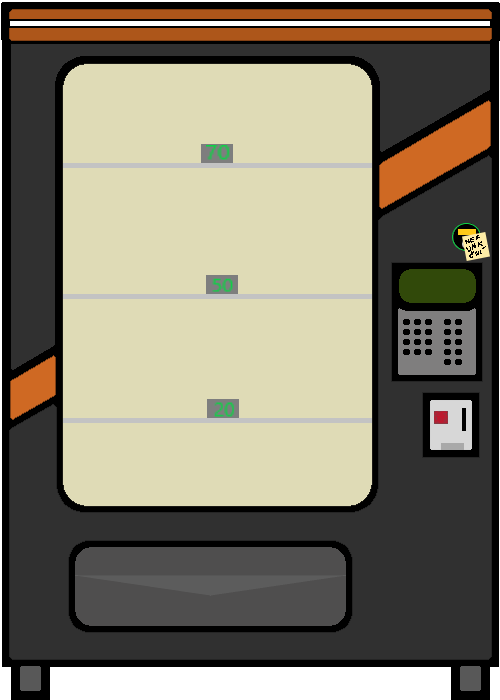
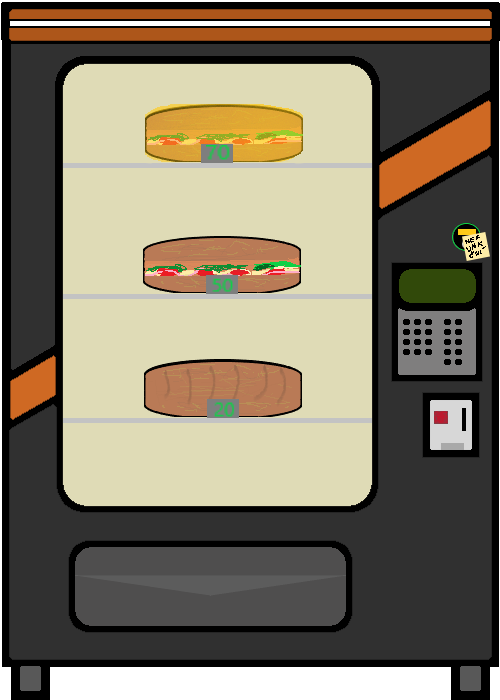
Nové textury

Changed region(s): [[0.27, 0.15, 0.63, 0.24], [0.27, 0.51, 0.63, 0.6], [0.27, 0.33, 0.6, 0.42]]

diff --git a/source/minihry/bageta/main.py b/source/minihry/bageta/main.py
@@ -27,6 +27,8 @@ obrazek_bageta_1 = pygame.image.load("bageta_1.png")
 obrazek_bageta_2 = pygame.image.load("bageta_2.png")
 obrazek_bageta_3 = pygame.image.load("bageta_3.png")
 
+
+
 global splneno
 splneno = False 
 global penezenka
@@ -82,42 +84,39 @@ def automat():
             
         if kurzor_x > 872 and kurzor_x < 930 and kurzor_y > 491 and kurzor_y < 557 and click_mysi == 1:
             vklad_mince()           
-            
-        if kurzor_x > 900 and kurzor_x < 932 and kurzor_y > 318 and kurzor_y < 351 and click_mysi == 1:
-            print("nemáš kartu")
-            
-        if kurzor_x > 521 and kurzor_x < 797 and kurzor_y > 642 and kurzor_y < 737 and click_mysi == 1:
-            print("nic zatím nevypdalo")
+
             
         if splneno == True:
          if vlozeno >= 2 and vlozeno < 5:
-            print("ziskal jsi bagetu standart")
+            print("ziskal jsi bagetu")
+            okno.blit(obrazek_bageta_1, (450, 20))
             tier_1 = True
             
         if splneno == True:
          if vlozeno >= 5 and vlozeno < 7:
-            print("ziskal jsi bagetu premium")
+            print("ziskal jsi bagetu standart")
+            okno.blit(obrazek_bageta_2, (450, 20))
             tier_2 = True
             
         if splneno == True:
          if vlozeno == 7:
-            print("ziskal jsi bagetu premium deluxe")
+            print("ziskal jsi bagetu deluxe")
+            okno.blit(obrazek_bageta_3, (450, 20))
             tier_3 = True                
-        
+
+
 
         okno.blit(obrazek_zed, (0,0))
         okno.blit(obrazek_automat, (450,100))
+        pygame.display.flip()
         if tier_1 == True :
-            okno.blit(obrazek_bageta_1, (450, 20))
             return "nazev_achievementu_1"
         if tier_2 == True :
-            okno.blit(obrazek_bageta_2, (450, 20))
             return "nazev_achievementu_2"
         if tier_3 == True :
-            okno.blit(obrazek_bageta_3, (450, 20))
             return "nazev_achievementu_3"
             
-        pygame.display.flip()
+        
 
         
         
